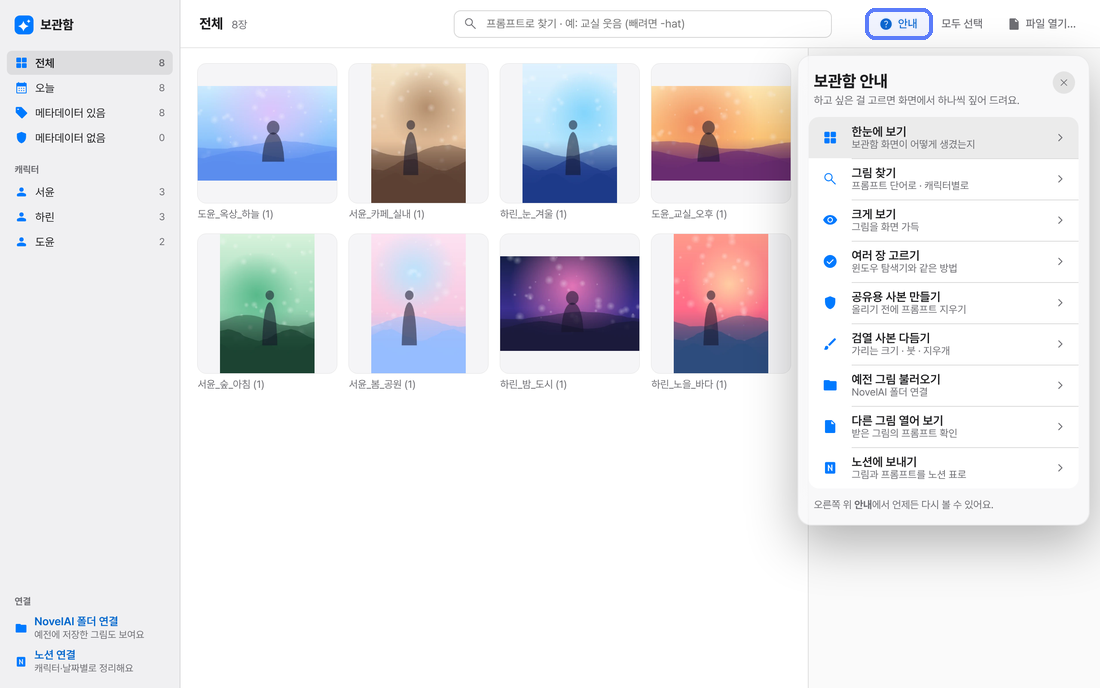
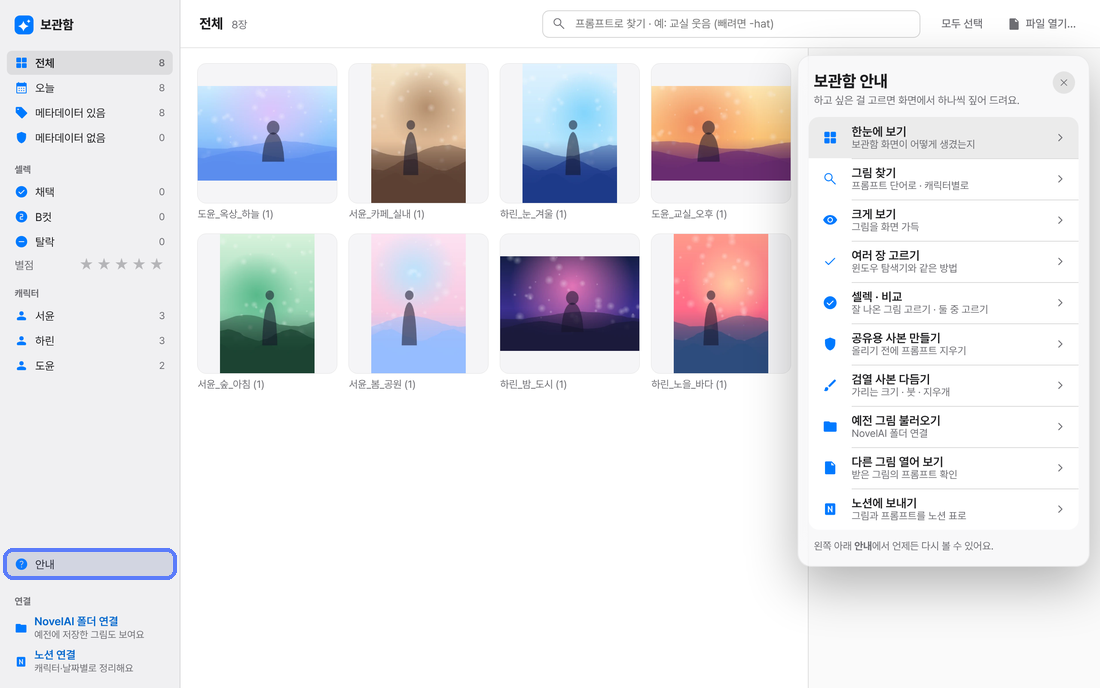
v1.11.1: library 안내 moves to the sidebar bottom
Claude-Session: https://claude.ai/code/session_01F5PhjxGHUZ8UfR6fHQErPn

diff --git a/library-tour.js b/library-tour.js
@@ -43,7 +43,7 @@
       ],
     },
     {
-      id: "select", icon: "check_circle", title: "여러 장 고르기", short: "윈도우 탐색기와 같은 방법",
+      id: "select", icon: "check", title: "여러 장 고르기", short: "윈도우 탐색기와 같은 방법",
       steps: [
         { target: firstTile, empty: NO_PICTURE, title: "하나씩 더하기", body: "<b>Ctrl</b>(맥은 ⌘)을 누른 채 클릭하거나, 그림 왼쪽 위 <b>동그라미</b>를 눌러요. <b>Shift</b>+클릭은 사이에 있는 그림 전부예요." },
         { target: () => $(".gallery"), title: "끌어서 고르기", body: "그림 사이 <b>빈 곳에서 끌면</b> 네모 안에 든 그림이 다 골라져요. 빈 곳을 누르거나 <b>Esc</b>를 누르면 풀려요." },
@@ -150,7 +150,7 @@
       <div class="lt-head"><div><div class="lt-title">보관함 안내</div><div class="lt-sub">하고 싶은 걸 고르면 화면에서 하나씩 짚어 드려요.</div></div>
         <button type="button" class="lt-close" data-close aria-label="안내 닫기">${ico("close", 14)}</button></div>
       <ul class="lt-topics">${items}</ul>
-      <p class="lt-foot">오른쪽 위 <b>안내</b>에서 언제든 다시 볼 수 있어요.</p>`;
+      <p class="lt-foot">왼쪽 아래 <b>안내</b>에서 언제든 다시 볼 수 있어요.</p>`;
     sheet.hidden = false;
     document.querySelector(".help-open")?.setAttribute("aria-expanded", "true");
     sheet.querySelector(".lt-topic")?.focus();

diff --git a/library.html b/library.html
@@ -20,6 +20,7 @@
       <div class="side-label">캐릭터</div>
       <nav class="nav nav-chars" aria-label="캐릭터"></nav>
       <div class="grow"></div>
+      <button class="nav-item help-open" type="button" aria-expanded="false" title="보관함에서 할 수 있는 것과 하는 방법"><span data-icon="help" data-size="16"></span><span class="label">안내</span></button>
       <div class="side-label">연결</div>
       <div class="folder-box" data-state="none"></div>
       <div class="folder-box notion-box" data-state="none"></div>
@@ -36,7 +37,6 @@
           </label>
         </div>
         <div class="tb-right">
-        <button class="btn plain help-open" type="button" aria-expanded="false" title="보관함에서 할 수 있는 것과 하는 방법"><span data-icon="help" data-size="16"></span>안내</button>
         <button class="btn plain pick-all" type="button" title="보이는 그림 모두 고르기 (⌘/Ctrl+A)">모두 선택</button>
         <button class="btn plain clear-sel" type="button" hidden title="Esc">선택 해제</button>
         <button class="btn plain open-files" type="button" title="다른 폴더에 있는 그림도 열어서 프롬프트를 보거나 사본을 만들어요. 보관함에는 넣지 않아요. 창에 끌어다 놓아도 돼요.">

diff --git a/library.css b/library.css
@@ -428,7 +428,9 @@ body { word-break: keep-all; overflow-wrap: anywhere; }
 .lt-topic-end { color: var(--text3); display: flex; }
 .lt-topic[data-done="true"] .lt-topic-end { color: var(--accent); }
 .lt-foot { margin: 12px 18px 16px; font-size: 12px; color: var(--text2); }
-.help-open[aria-expanded="true"] { color: var(--accent-text); }
+.nav-item.help-open { margin-bottom: 6px; }
+.nav-item.help-open svg { color: var(--accent); }
+.nav-item.help-open[aria-expanded="true"] { background: var(--sel); }
 
 /* 셀렉: label pill + stars on tiles, controls in the inspector, sidebar filter */
 .tile-cull { position: absolute; left: 6px; bottom: 6px; display: flex; gap: 4px; align-items: center; pointer-events: none; }
